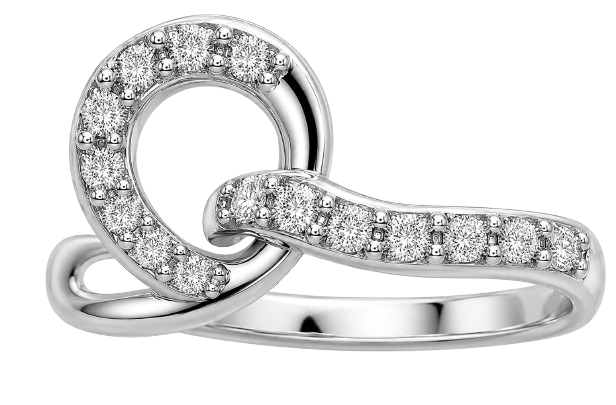
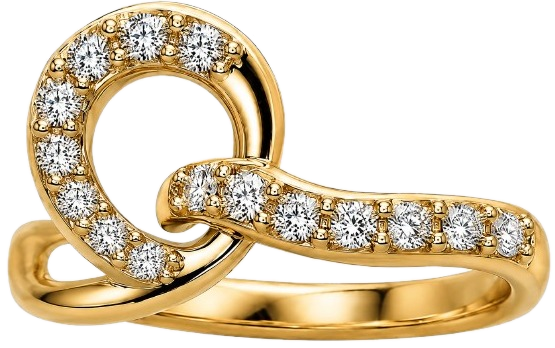
Swap wordmark ring to gold, fix broken image path
Replaced the "O" ring cutout in the hero wordmark with the gold
diamond ring artwork (background removed, inner hole and small loop
kept transparent so the letters show through as before). Also fixed
the image src pointing at an absolute /public/ring.png URL, which
404'd since Next.js serves the public/ directory at the site root,
not under /public.

Claude-Session: https://claude.ai/code/session_01TEYHGWTEL8vQEACw1oXEAt

diff --git a/src/components/home/vylore-experience/BackgroundWordmark.tsx b/src/components/home/vylore-experience/BackgroundWordmark.tsx
@@ -56,7 +56,7 @@ export function BackgroundWordmark({ innerRef }: BackgroundWordmarkProps) {
           }}
         >
           <img
-            src="https://vylore.in/public/ring.png"
+            src="/ring.png"
             alt=""
             className="
   absolute
